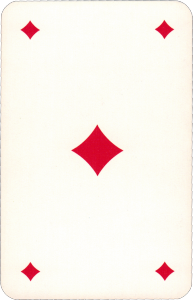
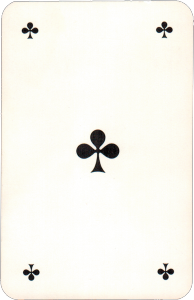
Added to sets of cards Made the original UI the default for now Added display of player who chose atout

diff --git a/src/main/java/com/leflat/jass/client/ModernGamePanel.java b/src/main/java/com/leflat/jass/client/ModernGamePanel.java
@@ -4,9 +4,8 @@ import com.leflat.jass.common.BasePlayer;
 import com.leflat.jass.common.Card;
 import com.leflat.jass.server.PlayerLeftExpection;
 
-import javax.swing.*;
 import javax.swing.Timer;
-import javax.swing.border.BevelBorder;
+import javax.swing.*;
 import java.awt.*;
 import java.awt.event.*;
 import java.awt.geom.AffineTransform;
@@ -27,9 +26,10 @@ public class ModernGamePanel extends JPanel implements MouseMotionListener {
     }
 
     private final static Logger LOGGER = Logger.getLogger(OriginalUi.class.getName());
-    private final Map<PlayerPosition, BasePlayer> players = new HashMap<>();
     private static final float ASPECT_RATIO = 630f / 530;
     private static final Color CARPET_COLOR = new Color(51, 102, 0);
+    private static final int DOT_SIZE = 7;
+    private final Map<PlayerPosition, BasePlayer> players = new HashMap<>();
     private GameMode gameMode = GameMode.IDLE;
     private final Set<Integer> drawnCards = new HashSet<>();
     private final List<Card> lastPlie = new ArrayList<>();
@@ -50,6 +50,7 @@ public class ModernGamePanel extends JPanel implements MouseMotionListener {
     private int animationFrameNumber;
     private Timer animationTimer;
     private boolean announcementButtonPressed;
+    private PlayerPosition atoutChoser = PlayerPosition.NONE;
 
     public ModernGamePanel() {
         super();
@@ -232,21 +233,7 @@ public class ModernGamePanel extends JPanel implements MouseMotionListener {
         var centerArea = getCenterArea(renderingArea);
         var cardDimension = getCardDimension(renderingArea);
 
-        Rectangle2D.Float targetArea = null;
-        switch (position) {
-            case MYSELF:
-                targetArea = getPlayerArea(renderingArea);
-                break;
-            case ACROSS:
-                targetArea = getAcrossArea(renderingArea);
-                break;
-            case LEFT:
-                targetArea = getLeftArea(renderingArea);
-                break;
-            case RIGHT:
-                targetArea = getRightArea(renderingArea);
-                break;
-        }
+        Rectangle2D.Float targetArea = getPlayerArea(position);
         Point animationTarget = new Point(round(targetArea.x + targetArea.width / 2),
                 round(targetArea.y + targetArea.height / 2));
 
@@ -308,6 +295,16 @@ public class ModernGamePanel extends JPanel implements MouseMotionListener {
         statusPanel.displayMessage(message);
     }
 
+    public void setAtoutChoser(PlayerPosition position) {
+        if (atoutChoser != PlayerPosition.NONE) {
+            repaint(toInt(getPlayerArea(atoutChoser)));
+        }
+        atoutChoser = position;
+        if (position != PlayerPosition.NONE) {
+            repaint(toInt(getPlayerArea(position)));
+        }
+    }
+
     private void pressButtonAnnouncement(ActionEvent evt) {
         buttonAnnounce.setEnabled(false);
         announcementButtonPressed = true;
@@ -334,7 +331,7 @@ public class ModernGamePanel extends JPanel implements MouseMotionListener {
     private Dimension getCardDimension(Rectangle2D.Float renderingArea) {
         float scale = renderingArea.height / 530f;
         float height = 96f * scale;
-        float width = height / CardImages.IMG_HEIGHT * CardImages.IMG_WIDTH;
+        float width = height / SwissCardImages.IMG_HEIGHT * SwissCardImages.IMG_WIDTH;
         var dim = new Dimension();
         dim.setSize(width, height);
         return dim;
@@ -467,11 +464,11 @@ public class ModernGamePanel extends JPanel implements MouseMotionListener {
         float y_offset = infoArea.y + 5f * infoArea.height / 40f;
         for (int i = 0; i < lastPlie.size(); i++) {
             int card_x = round(x_offset + x_step * i);
-            g2.drawImage(CardImages.getImage(lastPlie.get(i)),
+            g2.drawImage(SwissCardImages.getImage(lastPlie.get(i)),
                     card_x, round(y_offset),
                     card_x + cardDimension.width, round(y_offset + 35f / 40f * infoArea.height),
                     0, 0,
-                    CardImages.IMG_WIDTH, round(35f / 96f * CardImages.IMG_HEIGHT),
+                    SwissCardImages.IMG_WIDTH, round(35f / 96f * SwissCardImages.IMG_HEIGHT),
                     this);
         }
         float last_plie_x = 20f / 40 * infoArea.height;
@@ -483,7 +480,7 @@ public class ModernGamePanel extends JPanel implements MouseMotionListener {
                     infoArea.y + last_plie_x);
             int stringWidth = g2.getFontMetrics().stringWidth("Atout:  ");
             int colorSize = round(15f / 40f * infoArea.height);
-            g2.drawImage(CardImages.getColorImage(atoutColor),
+            g2.drawImage(SwissCardImages.getColorImage(atoutColor),
                     round(infoArea.x + atout_x + stringWidth),
                     round(infoArea.y + 8f / 40f * infoArea.height),
                     colorSize, colorSize, this);
@@ -509,7 +506,7 @@ public class ModernGamePanel extends JPanel implements MouseMotionListener {
         g2.fillRoundRect(round(centerArea.x), round(centerArea.y),
                 round(centerArea.width), round(centerArea.height), round(centerArea.width / 20), round(centerArea.width / 20));
         g2.setColor(color);
-        float scale = (float) cardDimension.height / CardImages.IMG_HEIGHT;
+        float scale = (float) cardDimension.height / SwissCardImages.IMG_HEIGHT;
 
         if (gameMode == GameMode.TEAM_DRAWING) {
             for (int i = 0; i < 36; i++) {
@@ -517,7 +514,7 @@ public class ModernGamePanel extends JPanel implements MouseMotionListener {
                 float card_x_step = (centerArea.width - 2 * card_x_offset - cardDimension.width) / 35.0f;
                 int card_y_offset = round((centerArea.height - cardDimension.height) / 2 + centerArea.y);
                 if (!drawnCards.contains(i)) {
-                    g2.drawImage(CardImages.getBackImage(), round(centerArea.x + card_x_offset + i * card_x_step),
+                    g2.drawImage(SwissCardImages.getBackImage(), round(centerArea.x + card_x_offset + i * card_x_step),
                             card_y_offset, cardDimension.width, cardDimension.height, this);
                 }
             }
@@ -529,17 +526,17 @@ public class ModernGamePanel extends JPanel implements MouseMotionListener {
                 xform.scale(scale, scale);
                 switch (entry.getKey()) {
                     case LEFT:
-                        xform.translate(CardImages.IMG_HEIGHT / 2f, CardImages.IMG_WIDTH / 2f);
+                        xform.translate(SwissCardImages.IMG_HEIGHT / 2f, SwissCardImages.IMG_WIDTH / 2f);
                         xform.rotate(toRadians(90 + cardAngles.get(PlayerPosition.LEFT)));
-                        xform.translate(-CardImages.IMG_WIDTH / 2f, -CardImages.IMG_HEIGHT / 2f);
+                        xform.translate(-SwissCardImages.IMG_WIDTH / 2f, -SwissCardImages.IMG_HEIGHT / 2f);
                         break;
                     case RIGHT:
-                        xform.translate(CardImages.IMG_HEIGHT / 2f, CardImages.IMG_WIDTH / 2f);
+                        xform.translate(SwissCardImages.IMG_HEIGHT / 2f, SwissCardImages.IMG_WIDTH / 2f);
                         xform.rotate(toRadians(-90 + cardAngles.get(PlayerPosition.RIGHT)));
-                        xform.translate(-CardImages.IMG_WIDTH / 2f, -CardImages.IMG_HEIGHT / 2f);
+                        xform.translate(-SwissCardImages.IMG_WIDTH / 2f, -SwissCardImages.IMG_HEIGHT / 2f);
                         break;
                 }
-                g2.drawRenderedImage(CardImages.getImage(entry.getValue()), xform);
+                g2.drawRenderedImage(SwissCardImages.getImage(entry.getValue()), xform);
             }
         }
     }
@@ -555,14 +552,14 @@ public class ModernGamePanel extends JPanel implements MouseMotionListener {
         float card_x_step = hand.size() < 2 ? 0 : (hand_width - cardDimension.width) / (float) (hand.size() - 1);
         for (int i = 0; i < hand.size(); i++) {
             if (i == hoveredCard && isInteractive) {
-                var image = CardImages.getImage(hand.get(i));
+                var image = SwissCardImages.getImage(hand.get(i));
                 RescaleOp op = new RescaleOp(0.7f, 0, null);
                 var darken = op.filter(image, null);
                 g2.drawImage(darken,
                         round(hand_x_offset + i * card_x_step), hand_y_offset,
                         cardDimension.width, cardDimension.height, this);
             } else {
-                g2.drawImage(CardImages.getImage(hand.get(i)),
+                g2.drawImage(SwissCardImages.getImage(hand.get(i)),
                         round(hand_x_offset + i * card_x_step), hand_y_offset,
                         cardDimension.width, cardDimension.height, this);
             }
@@ -572,6 +569,11 @@ public class ModernGamePanel extends JPanel implements MouseMotionListener {
         float nameX = playerArea.x + playerArea.width * 30f / 390f;
         float nameY = playerArea.y + playerArea.height * 15f / 120f;
         g2.drawString(player.getName(), nameX, nameY);
+
+        if (atoutChoser == PlayerPosition.MYSELF) {
+            int width = g2.getFontMetrics().stringWidth(player.getName());
+            g2.fillOval(round(nameX + 8 + width), round(nameY - 8), DOT_SIZE, DOT_SIZE);
+        }
     }
 
     void paintAcrossArea(Graphics2D g2, Rectangle2D.Float topArea, Dimension cardDimension) {
@@ -582,7 +584,7 @@ public class ModernGamePanel extends JPanel implements MouseMotionListener {
         var hand_y_offset = round(topArea.y + topArea.height * 20f / 120f);
         var card_x_step = hand.size() < 2 ? 0 : (hand_width - cardDimension.width) / (float) (hand.size() - 1);
         for (int i = hand.size() - 1; i >= 0; i--) {
-            g2.drawImage(CardImages.getImage(hand.get(i)),
+            g2.drawImage(SwissCardImages.getImage(hand.get(i)),
                     round(hand_x_offset + i * card_x_step), hand_y_offset,
                     cardDimension.width, cardDimension.height, this);
         }
@@ -591,13 +593,18 @@ public class ModernGamePanel extends JPanel implements MouseMotionListener {
         float nameX = topArea.x + topArea.width * 30f / 390f;
         float nameY = topArea.y + topArea.height * 15f / 120f;
         g2.drawString(player.getName(), nameX, nameY);
+
+        if (atoutChoser == PlayerPosition.ACROSS) {
+            int width = g2.getFontMetrics().stringWidth(player.getName());
+            g2.fillOval(round(nameX + 8 + width), round(nameY - 8), DOT_SIZE, DOT_SIZE);
+        }
     }
 
     void paintLeftArea(Graphics2D g2, Rectangle2D.Float leftArea, Dimension cardDimension) {
         var player = players.get(PlayerPosition.LEFT);
         var hand = player.getHand();
 
-        float scale = (float) cardDimension.height / CardImages.IMG_HEIGHT;
+        float scale = (float) cardDimension.height / SwissCardImages.IMG_HEIGHT;
         float hand_height = (hand.size() - 1) * cardDimension.width / 2.1f + (float) cardDimension.getWidth();
         float card_y_step = hand.size() < 2 ? 0 : (hand_height - cardDimension.width) / (float) (hand.size() - 1);
         var hand_x_offset = leftArea.x + (leftArea.width - cardDimension.height) / 2;
@@ -606,23 +613,26 @@ public class ModernGamePanel extends JPanel implements MouseMotionListener {
             var xform = new AffineTransform();
             xform.translate(hand_x_offset, hand_y_offset + card_y_step * i);
             xform.scale(scale, scale);
-            xform.translate(CardImages.IMG_HEIGHT / 2f, CardImages.IMG_WIDTH / 2f);
+            xform.translate(SwissCardImages.IMG_HEIGHT / 2f, SwissCardImages.IMG_WIDTH / 2f);
             xform.rotate(toRadians(90));
-            xform.translate(-CardImages.IMG_WIDTH / 2f, -CardImages.IMG_HEIGHT / 2f);
-            g2.drawRenderedImage(CardImages.getImage(hand.get(i)), xform);
+            xform.translate(-SwissCardImages.IMG_WIDTH / 2f, -SwissCardImages.IMG_HEIGHT / 2f);
+            g2.drawRenderedImage(SwissCardImages.getImage(hand.get(i)), xform);
         }
 
         // name
         float nameX = leftArea.x + leftArea.width * 20f / 120f;
         float nameY = leftArea.y + min(leftArea.height * 90f / 450f, hand_y_offset - cardDimension.width / 3f);
         g2.drawString(player.getName(), nameX, nameY);
+        if (atoutChoser == PlayerPosition.LEFT) {
+            g2.fillOval(round(nameX), round(nameY + 7), DOT_SIZE, DOT_SIZE);
+        }
     }
 
     void paintRightArea(Graphics2D g2, Rectangle2D.Float rightArea, Dimension cardDimension) {
         var player = players.get(PlayerPosition.RIGHT);
         var hand = player.getHand();
 
-        var scale = (float) cardDimension.height / CardImages.IMG_HEIGHT;
+        var scale = (float) cardDimension.height / SwissCardImages.IMG_HEIGHT;
         var hand_height = (hand.size() - 1) * cardDimension.width / 2.1f + (float)cardDimension.getWidth();
         var card_y_step = hand.size() < 2 ? 0 : (hand_height - cardDimension.width) / (float) (hand.size() - 1);
         var hand_x_offset = rightArea.x + (rightArea.width - cardDimension.height) / 2;
@@ -631,20 +641,24 @@ public class ModernGamePanel extends JPanel implements MouseMotionListener {
             var xform = new AffineTransform();
             xform.translate(hand_x_offset, hand_y_offset + card_y_step * i);
             xform.scale(scale, scale);
-            xform.translate(CardImages.IMG_HEIGHT / 2f, CardImages.IMG_WIDTH / 2f);
+            xform.translate(SwissCardImages.IMG_HEIGHT / 2f, SwissCardImages.IMG_WIDTH / 2f);
             xform.rotate(toRadians(-90));
-            xform.translate(-CardImages.IMG_WIDTH / 2f, -CardImages.IMG_HEIGHT / 2f);
-            g2.drawRenderedImage(CardImages.getImage(hand.get(i)), xform);
+            xform.translate(-SwissCardImages.IMG_WIDTH / 2f, -SwissCardImages.IMG_HEIGHT / 2f);
+            g2.drawRenderedImage(SwissCardImages.getImage(hand.get(i)), xform);
         }
 
         // name
         float nameX = rightArea.x + rightArea.width * 20f / 120f;
         float nameY = rightArea.y + min(round(rightArea.height * 90f / 450f), hand_y_offset - cardDimension.width / 3f);
         g2.drawString(player.getName(), nameX, nameY);
+
+        if (atoutChoser == PlayerPosition.RIGHT) {
+            g2.fillOval(round(nameX), round(nameY + 7), DOT_SIZE, DOT_SIZE);
+        }
     }
 
     void paintAnimation(Graphics2D g2, Rectangle2D.Float renderingArea, Dimension cardDimension) {
-        float scale = (float) cardDimension.height / CardImages.IMG_HEIGHT;
+        float scale = (float) cardDimension.height / SwissCardImages.IMG_HEIGHT;
         for (var playerPosition : players.keySet()) {
             var card = playedCards.get(playerPosition);
             var pos = animationPositions.get(playerPosition);
@@ -654,22 +668,22 @@ public class ModernGamePanel extends JPanel implements MouseMotionListener {
             xform.scale(scale, scale);
             switch (playerPosition) {
                 case LEFT:
-                    xform.translate(CardImages.IMG_HEIGHT / 2f, CardImages.IMG_WIDTH / 2f);
+                    xform.translate(SwissCardImages.IMG_HEIGHT / 2f, SwissCardImages.IMG_WIDTH / 2f);
                     xform.rotate(toRadians(90 + cardAngles.get(PlayerPosition.LEFT)));
-                    xform.translate(-CardImages.IMG_WIDTH / 2f, -CardImages.IMG_HEIGHT / 2f);
+                    xform.translate(-SwissCardImages.IMG_WIDTH / 2f, -SwissCardImages.IMG_HEIGHT / 2f);
                     break;
                 case RIGHT:
-                    xform.translate(CardImages.IMG_HEIGHT / 2f, CardImages.IMG_WIDTH / 2f);
+                    xform.translate(SwissCardImages.IMG_HEIGHT / 2f, SwissCardImages.IMG_WIDTH / 2f);
                     xform.rotate(toRadians(-90 + cardAngles.get(PlayerPosition.RIGHT)));
-                    xform.translate(-CardImages.IMG_WIDTH / 2f, -CardImages.IMG_HEIGHT / 2f);
+                    xform.translate(-SwissCardImages.IMG_WIDTH / 2f, -SwissCardImages.IMG_HEIGHT / 2f);
                     break;
             }
-            g2.drawRenderedImage(CardImages.getImage(card), xform);
+            g2.drawRenderedImage(SwissCardImages.getImage(card), xform);
             var currentColor = g2.getColor();
             g2.setColor(Color.CYAN);
             g2.drawRect(pos.x, pos.y, pos.width, pos.height);
             g2.setColor(currentColor);
-         //   g2.drawImage(CardImages.getImage(card), (int) round(pos.getX()), (int) round(pos.getY()), cardDimension.width, cardDimension.height, this);
+         //   g2.drawImage(SwissCardImages.getImage(card), (int) round(pos.getX()), (int) round(pos.getY()), cardDimension.width, cardDimension.height, this);
         }
     }
 
@@ -805,5 +819,20 @@ public class ModernGamePanel extends JPanel implements MouseMotionListener {
 
     Rectangle toInt(Rectangle2D.Float rect) {
         return new Rectangle(round(rect.x), round(rect.y), round(rect.width), round(rect.height));
+    }
+
+    Rectangle2D.Float getPlayerArea(PlayerPosition position) {
+        var renderingArea = getRenderingDimension();
+        switch(position) {
+            case MYSELF:
+                return getPlayerArea(renderingArea);
+            case ACROSS:
+                return getAcrossArea(renderingArea);
+            case LEFT:
+                return getLeftArea(renderingArea);
+            case RIGHT:
+                return getRightArea(renderingArea);
+        }
+        return null;
     }
 }

diff --git a/src/main/java/com/leflat/jass/client/SwissCardImages.java b/src/main/java/com/leflat/jass/client/SwissCardImages.java
@@ -8,11 +8,11 @@ import java.io.IOException;
 import java.util.logging.Level;
 import java.util.logging.Logger;
 
-public class CardImages {
+public class SwissCardImages {
     private final static Logger LOGGER = Logger.getLogger(CardImages.class.getName());
-    public static final int IMG_WIDTH = 71;
-    public static final int IMG_HEIGHT = 96;
-    private static final String IMG_PATH = "pics/";
+    public static final int IMG_WIDTH = 193;
+    public static final int IMG_HEIGHT = 300;
+    private static final String IMG_PATH = "pics/swiss/";
     private static final BufferedImage[] images = new BufferedImage[36];
     private static BufferedImage backImage;
     private static final BufferedImage[] colorImages = new BufferedImage[4];
@@ -35,10 +35,9 @@ public class CardImages {
             try {
                 backImage = ImageIO.read(backImagePath);
             } catch (IOException e) {
-                LOGGER.log(Level.SEVERE,"Unable to open image " + backImage, e);
+                LOGGER.log(Level.SEVERE, "Unable to open image " + backImage, e);
             }
-        }
-        else {
+        } else {
             LOGGER.severe("Unable to locate back card image");
         }
         for (int i = 0; i < 4; i++) {

diff --git a/src/main/java/com/leflat/jass/client/ModernUi.java b/src/main/java/com/leflat/jass/client/ModernUi.java
@@ -186,6 +186,9 @@ public class ModernUi extends JFrame implements IJassUi, MouseListener {
 
     @Override
     public int chooseAtout(boolean allowedToPass) {
+        if (allowedToPass) {
+            gamePanel.setAtoutChoser(PlayerPosition.MYSELF);
+        }
         Object[] options = new Object[allowedToPass ? 5 : 4];
         for (int i = 0; i < 4; i++) {
             options[i] = new ImageIcon(CardImages.getColorImage(i));
@@ -204,6 +207,7 @@ public class ModernUi extends JFrame implements IJassUi, MouseListener {
     @Override
     public void setAtout(int atout, int positionOfPlayerToChooseAtout) {
         gamePanel.setAtoutColor(atout);
+        gamePanel.setAtoutChoser(intToPlayerPosition(positionOfPlayerToChooseAtout));
     }
 
     @Override

diff --git a/src/main/java/com/leflat/jass/client/JassClient.java b/src/main/java/com/leflat/jass/client/JassClient.java
@@ -19,6 +19,7 @@ public class JassClient {
         }
 
         System.setProperty("sun.java2d.opengl", "true");
-        new JassPlayer(new ClientNetworkFactory(), new ModernUiFactory());
+        var uiFactory = args.length > 0 && args[0].compareTo("modern") == 0? new ModernUiFactory() : new OriginalUiFactory();
+        new JassPlayer(new ClientNetworkFactory(), uiFactory);
     }
 }

diff --git a/src/main/java/com/leflat/jass/common/Card.java b/src/main/java/com/leflat/jass/common/Card.java
@@ -42,7 +42,7 @@ public class Card implements Comparable<Card> {
 
     public static int atout;
 
-    private int number;
+    private final int number;
 
     public Card(int cardNumber) {
         number = cardNumber;

diff --git a/src/main/java/com/leflat/jass/client/PlayerPosition.java b/src/main/java/com/leflat/jass/client/PlayerPosition.java
@@ -1,5 +1,5 @@
 package com.leflat.jass.client;
 
 public enum PlayerPosition {
-    MYSELF, LEFT, RIGHT, ACROSS
+    MYSELF, LEFT, RIGHT, ACROSS, NONE
 }
